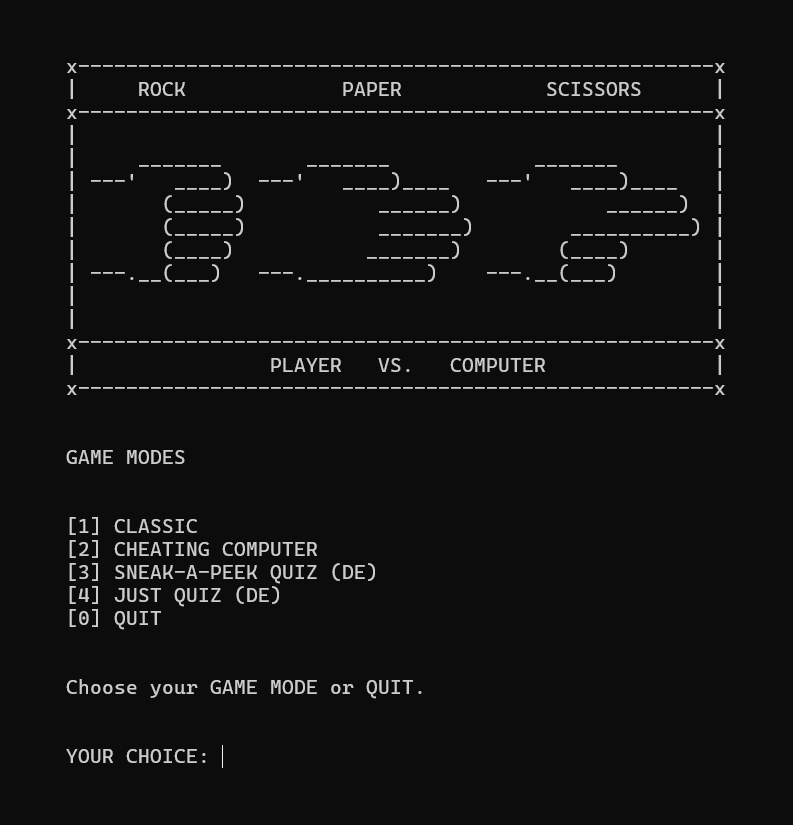
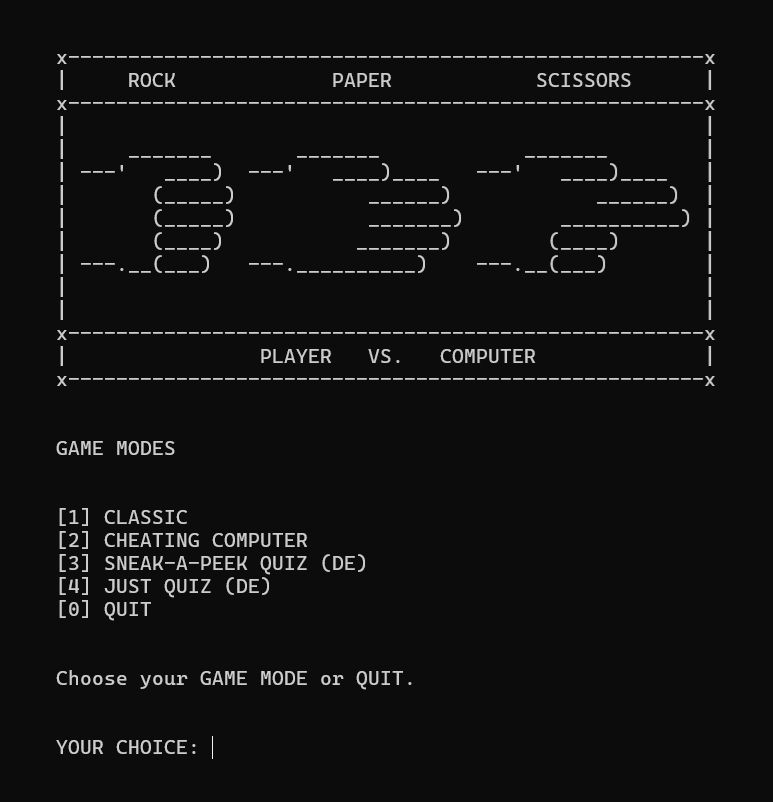
Update README and screenshot

diff --git a/README.md b/README.md
@@ -6,9 +6,11 @@ A DOS-style Rock Paper Scissors game built in Python, featuring ASCII animations
 
 ## Screenshot
 
+Preview of the main menu:
+
 ![Main Menu](images/screenshot_main_menu.png)
 
-*Main Menu of the game (Windows CMD)*
+*Main menu of the game (Windows CMD, ASCII UI)*
 
 ---
 
